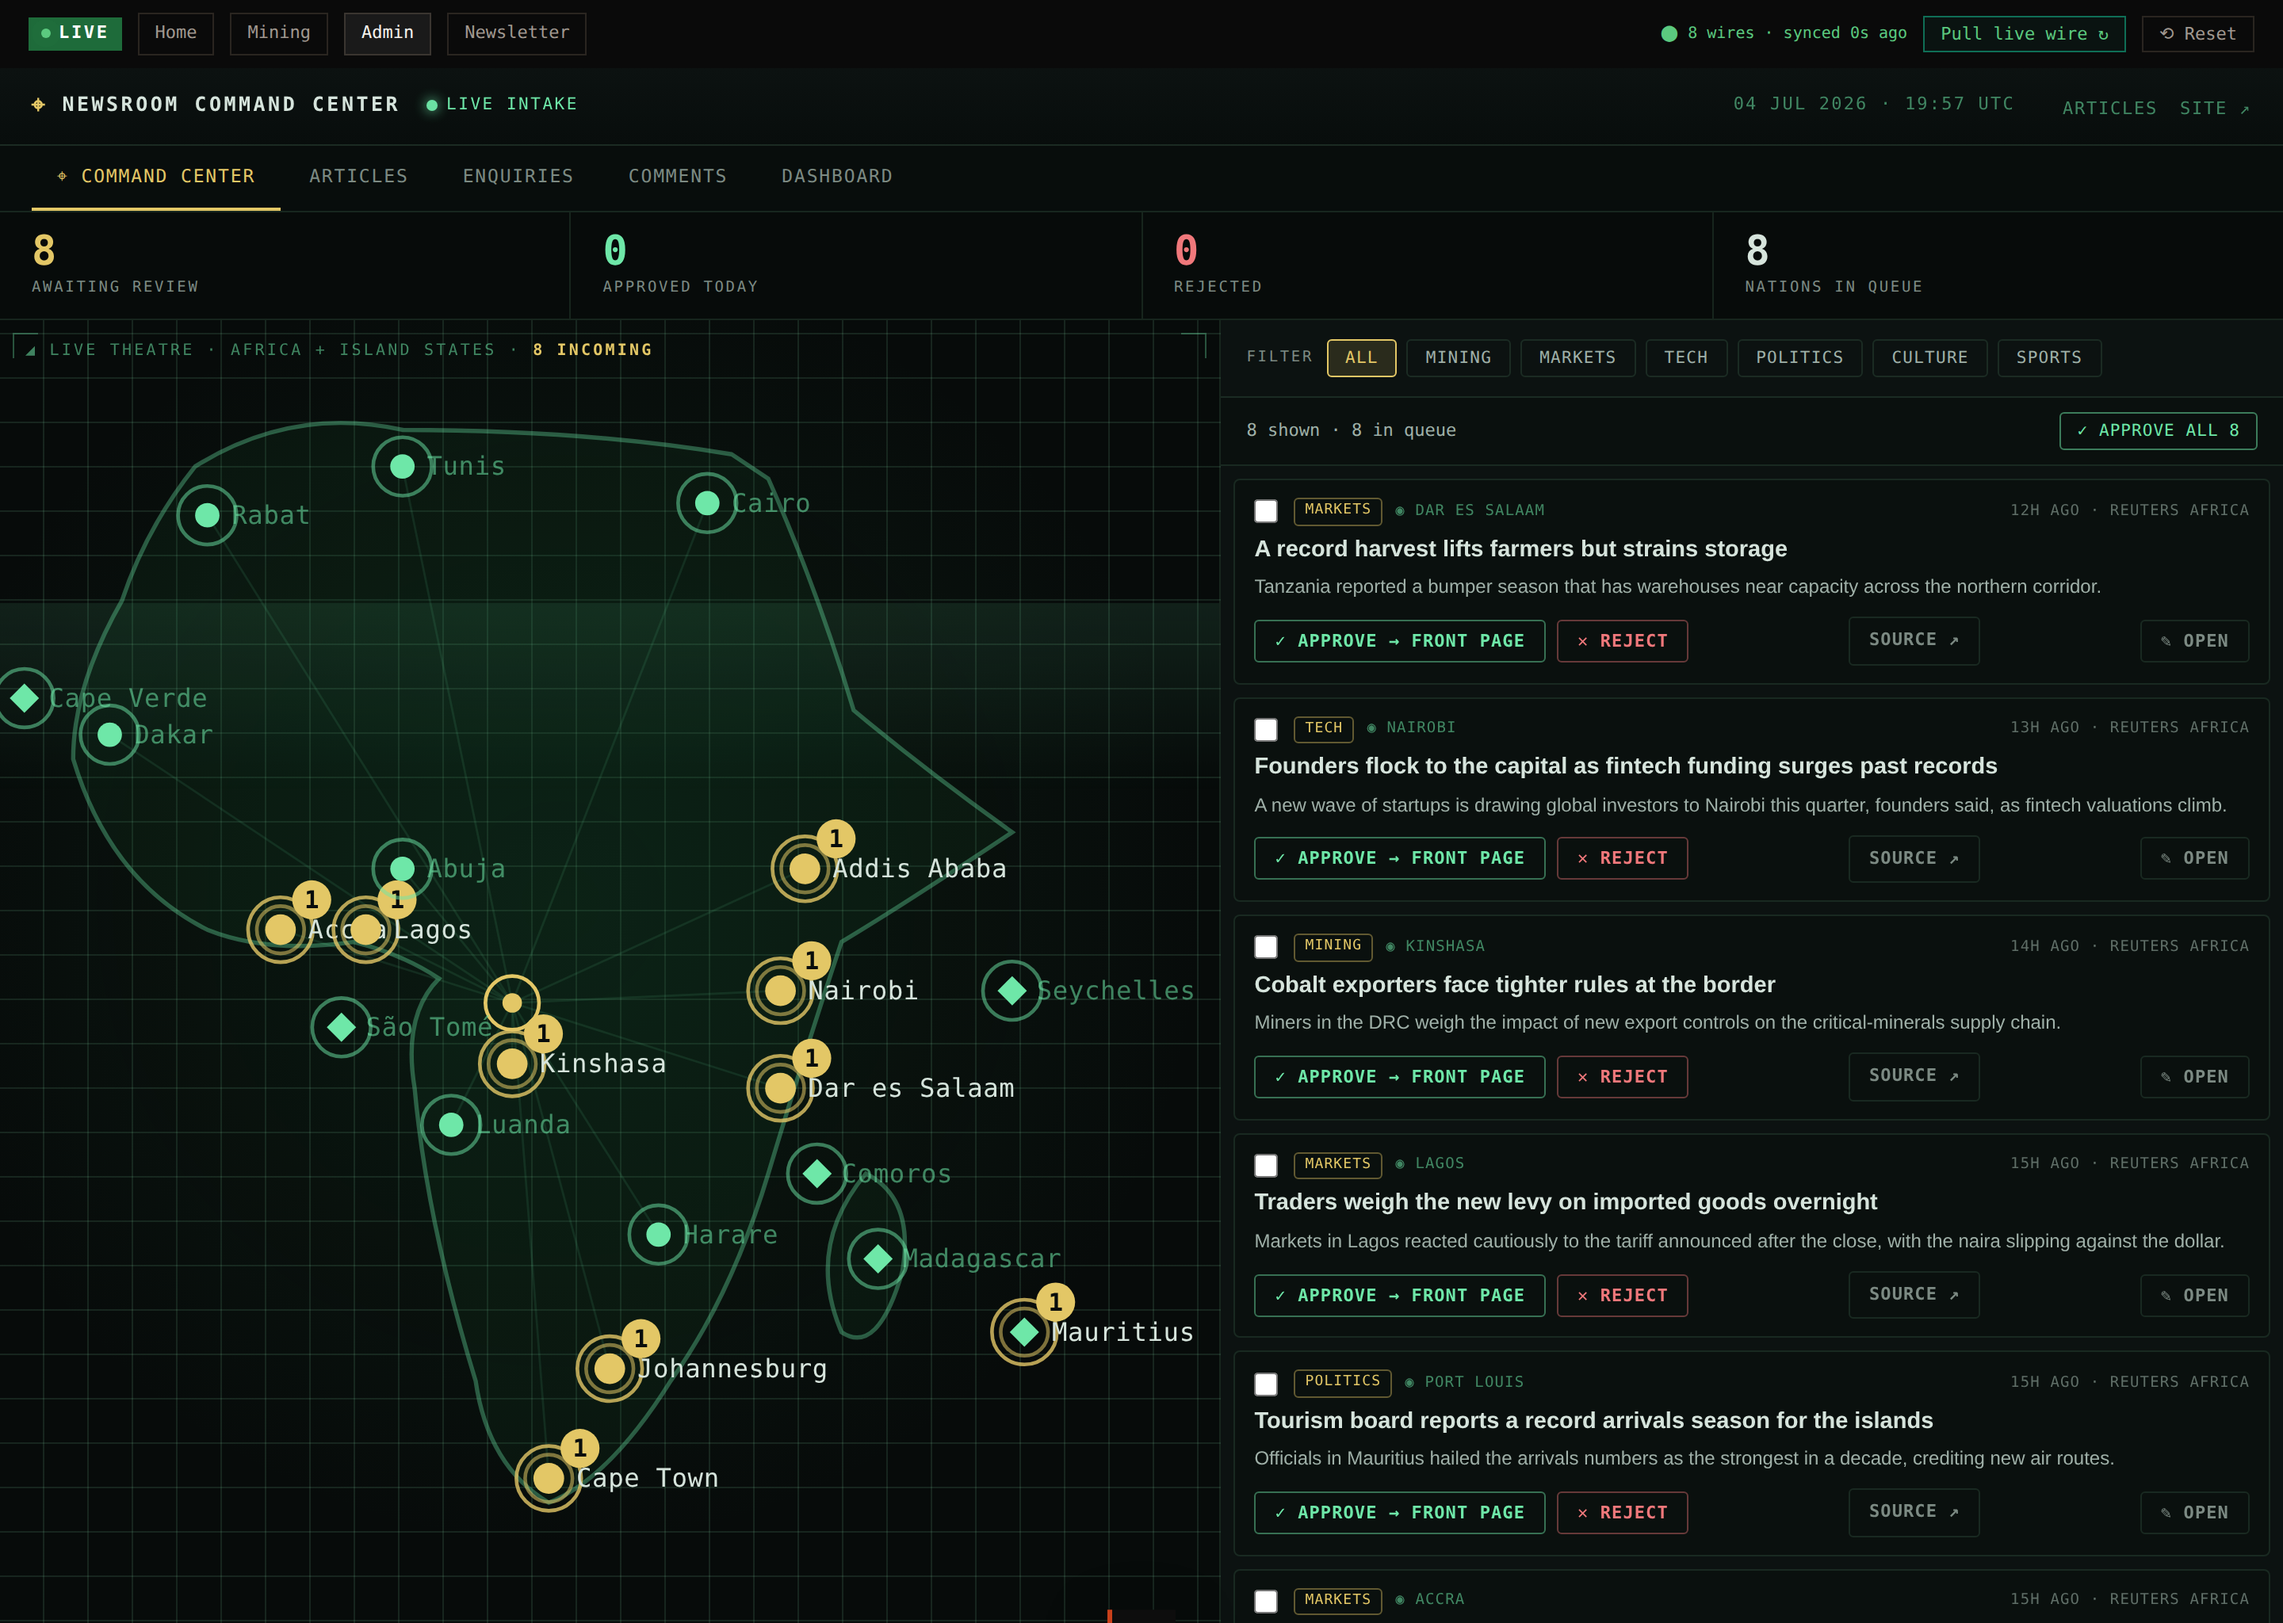
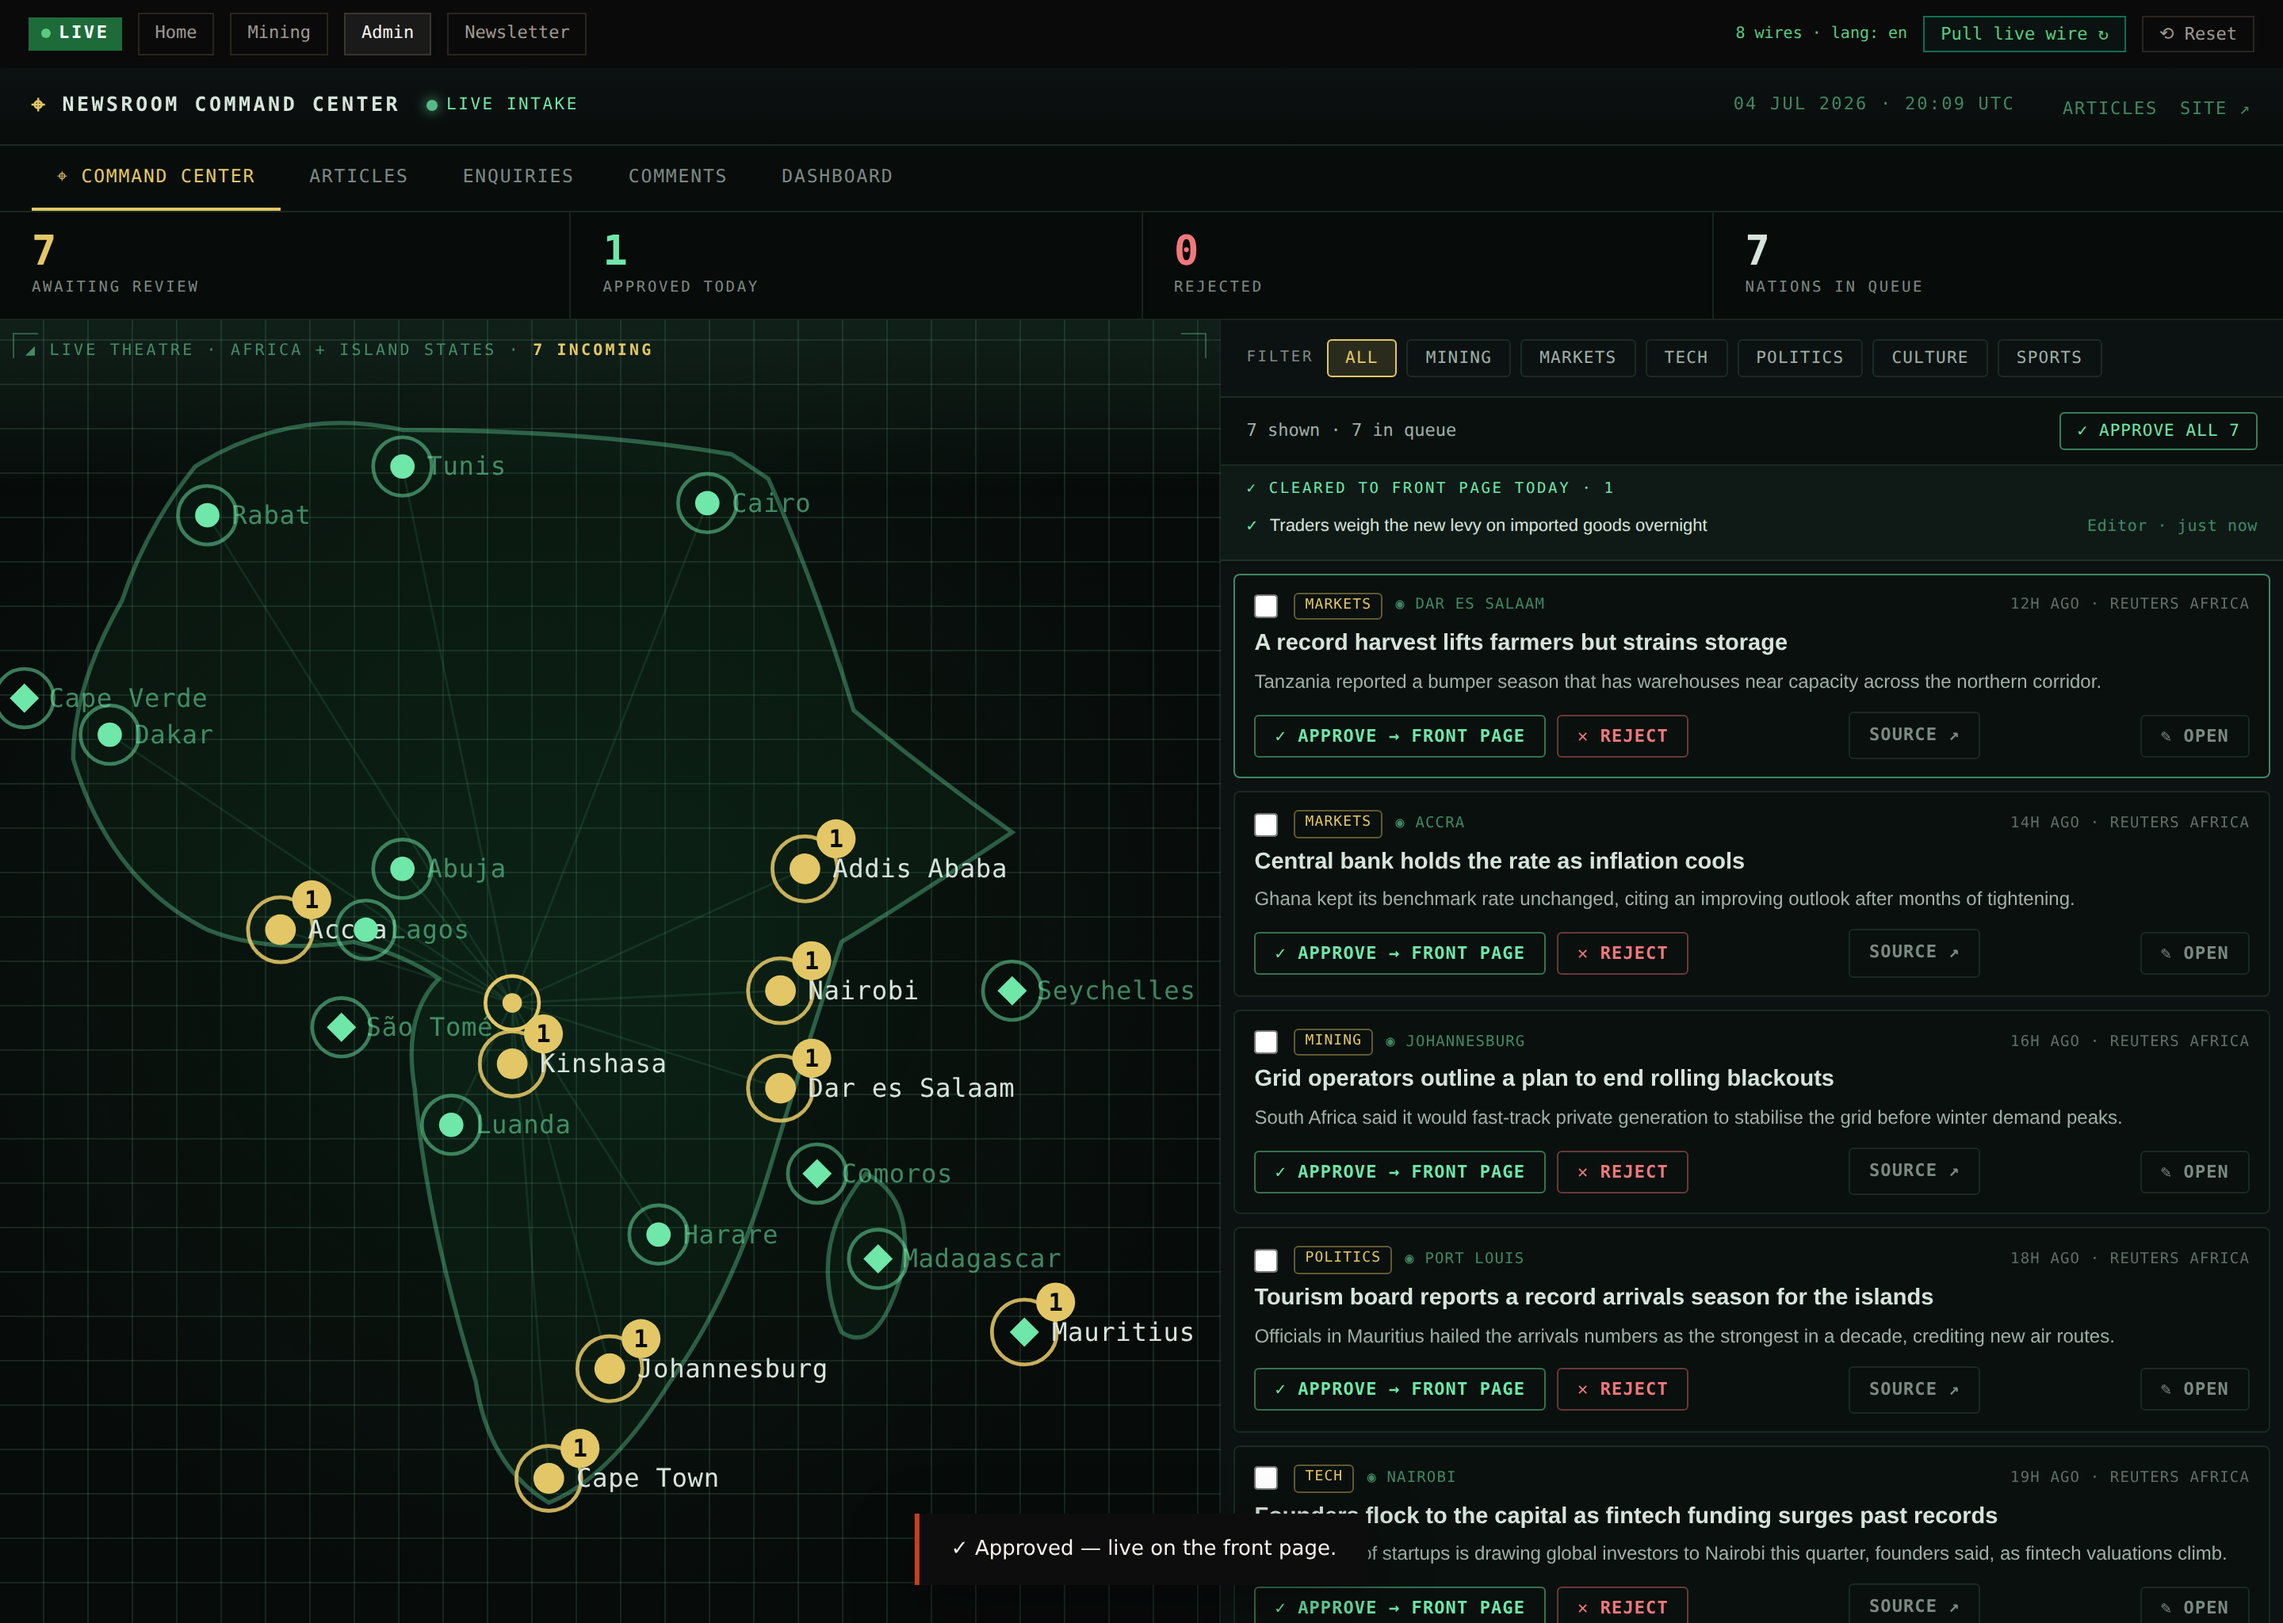
Command Center: audit trail — stamp who approved each story, and when
Approving a wire story now records the editor and timestamp (approved_by /
approved_at), giving a credible "every story is verified by a named editor"
trail for the pitch. Stored in the article payload (jsonb) — no schema change —
so it round-trips through Supabase.

- Surfaced in two places: the Command Center's "✓ Cleared to front page today"
  strip (recent approvals with editor + relative time) and a green audit banner
  in the CMS article editor ("Approved to the front page by <editor> · <date>").
- Both single Approve and bulk Approve stamp; Reject does not.
- CMS status dropdown now includes 'rejected' to match the DB constraint.

Verified: 51/51 unit tests, build clean, and the headless Command Center test
extended to 20/20 — after an approval the cleared-today log appears and names the
approving editor.

Claude-Session: https://claude.ai/code/session_011Ju2akXWqKdy9fLa3Wnv5F

diff --git a/public/afripulse-preview.html b/public/afripulse-preview.html
@@ -1023,6 +1023,14 @@ html[dir="rtl"] .nl-modal-x{right:auto;left:14px}
 .cc-btn.edit{margin-left:auto;color:#7C8A83}
 .cc-btn.edit:hover{border-color:var(--cc-phos-dim);color:var(--cc-ink)}
 .cc-btn .src{}
+.cc-cleared{border-bottom:1px solid var(--cc-line);background:rgba(110,231,168,.04);padding:8px 16px 10px}
+.cc-cleared-h{font-size:9.5px;letter-spacing:.14em;color:var(--cc-phos);text-transform:uppercase;margin-bottom:6px}
+.cc-cleared-row{display:flex;align-items:center;gap:8px;font-size:11px;padding:2px 0;color:#9FB0A8}
+.cc-cleared-row .ck{color:var(--cc-phos)}
+.cc-cleared-row .hd{color:var(--cc-ink);font-family:'DM Sans',sans-serif;white-space:nowrap;overflow:hidden;text-overflow:ellipsis;flex:1;min-width:0}
+.cc-cleared-row .by{color:var(--cc-phos-dim);white-space:nowrap;font-size:10px;letter-spacing:.03em}
+.adm-audit{padding:9px 22px;background:rgba(46,160,90,.12);border-bottom:1px solid #2A2D31;color:#7FE0A8;font-size:12px;letter-spacing:.02em}
+.adm-audit b{color:#CDEBD8;font-weight:600}
 .cc-empty{padding:60px 24px;text-align:center;color:#5F6E67;font-size:12.5px;line-height:1.8;letter-spacing:.04em}
 .cc-empty b{color:var(--cc-phos);display:block;font-size:14px;margin-bottom:6px}
 @media (max-width:920px){.cc-body{grid-template-columns:1fr}.cc-mapwrap{border-right:0;border-bottom:1px solid var(--cc-line);min-height:380px}.cc-queue{max-height:none}.cc-stat .n{font-size:20px}}
@@ -4401,8 +4409,13 @@ function adminEditor(a){
     vertOpts += '<option value="'+esc(k)+'"'+(a.vertical===k?' selected':'')+'>'+esc(vlabel(k))+'</option>';
   }
   let statusOpts='';
-  for(const s of ['draft','review','published']){
+  for(const s of ['draft','review','published','rejected']){
     statusOpts += '<option value="'+esc(s)+'"'+(a.status===s?' selected':'')+'>'+esc(s)+'</option>';
+  }
+  let auditBanner='';
+  if(a.approved_by){
+    let when=''; try{ when=' · '+new Date(a.approved_at).toLocaleString(); }catch(e){}
+    auditBanner='<div class="adm-audit">✓ Approved to the front page by <b>'+esc(a.approved_by)+'</b>'+esc(when)+'</div>';
   }
   let tagsHTML='';
   for(const tg of (a.tags||[])){
@@ -4420,6 +4433,7 @@ function adminEditor(a){
       '<button class="adm-btn primary" id="save-btn" type="button">'+esc(t('save'))+'</button>'+
     '</div>'+
   '</div>'+
+  auditBanner+
   '<form class="adm-form" id="article-form" data-original-slug="'+esc(a.slug||'')+'" onsubmit="return false">'+
     '<div class="adm-slug">🔗 Slug<span class="u" id="slug-preview">'+esc(slugDisplay)+'</span></div>'+
     '<div class="adm-field">'+
@@ -4914,13 +4928,37 @@ function viewAdminCommand(){
       '<div class="cc-panel">'+
         '<div class="cc-filter">'+chips+hubFilter+(anyFilter?'<button class="cc-clear" id="cc-clear">✕ clear</button>':'')+'</div>'+
         '<div class="cc-bulk" id="cc-bulk">'+ccBulkHTML(arts)+'</div>'+
+        ccClearedHTML()+
         '<div class="cc-queue" id="cc-queue">'+commandQueueHTML(arts)+'</div>'+
       '</div>'+
     '</div>'+
   '</div>';
 }
 function renderCCBulk(){ const el=document.getElementById('cc-bulk'); if(el) el.innerHTML=ccBulkHTML(ccFiltered()); }
+// Audit trail: stamp who cleared a story to the front page, and when. Rides along
+// in the article payload (jsonb) — no schema change — so it round-trips through
+// Supabase and shows in the CMS and the Command Center's "cleared today" log.
+function approverName(){ return (PROFILE && (PROFILE.display_name||PROFILE.handle)) || currentUserEmail() || 'Editor'; }
+function stampApproval(a){ if(!a) return; a.approved_by=approverName(); a.approved_at=new Date().toISOString(); }
+function clearedToday(){
+  const t=new Date(); t.setHours(0,0,0,0);
+  return ARTICLES.filter(function(a){ return a.status==='published' && a.approved_at && new Date(a.approved_at)>=t; })
+    .sort(function(a,b){ return new Date(b.approved_at)-new Date(a.approved_at); });
+}
+function ccClearedHTML(){
+  const c=clearedToday();
+  if(!c.length) return '';
+  let items='';
+  c.slice(0,6).forEach(function(a){
+    items+='<div class="cc-cleared-row"><span class="ck">✓</span>'+
+      '<span class="hd">'+esc(a.headline)+'</span>'+
+      '<span class="by">'+esc(a.approved_by||'editor')+' · '+esc(timeAgo(a.approved_at))+'</span></div>';
+  });
+  return '<div class="cc-cleared"><div class="cc-cleared-h">✓ Cleared to front page today · '+c.length+'</div>'+items+'</div>';
+}
 async function ccAct(slug, status){
+  const a=ARTICLES.find(function(x){ return x.slug===slug; });
+  if(a && status==='published') stampApproval(a);
   const ok=await setArticleStatus(slug, status);
   if(CC_SEL) CC_SEL.delete(slug);
   toast(ok?(status==='published'?'✓ Approved — live on the front page.':'Rejected.'):'Saved locally · sign in to sync.');
@@ -4931,7 +4969,7 @@ async function ccBulk(slugs, status){
   if(!slugs.length) return;
   if(status==='rejected' && !confirm('Reject '+slugs.length+' stor'+(slugs.length===1?'y':'ies')+'? They stay off the front page.')) return;
   const rows=[];
-  slugs.forEach(function(s){ const a=ARTICLES.find(function(x){return x.slug===s;}); if(a){ a.status=status; if(CC_SEL) CC_SEL.delete(s); rows.push(a); } });
+  slugs.forEach(function(s){ const a=ARTICLES.find(function(x){return x.slug===s;}); if(a){ a.status=status; if(status==='published') stampApproval(a); if(CC_SEL) CC_SEL.delete(s); rows.push(a); } });
   saveCache(ARTICLES);
   toast((status==='published'?'✓ Approved ':'Rejected ')+rows.length+' stor'+(rows.length===1?'y':'ies')+' — syncing…');
   route();

diff --git a/docs/COMMAND_CENTER.md b/docs/COMMAND_CENTER.md
@@ -43,6 +43,10 @@ still works, because `published` was always allowed).
 - **Bulk:** tick the checkboxes and **Approve/Reject selected**, or **Approve all
   shown** to clear a filtered batch in one click.
 - **HUD stats:** Awaiting review · Approved today · Rejected · Nations in queue.
+- **Audit trail:** approving a story stamps **who** cleared it and **when**. It
+  shows in the Command Center's "✓ Cleared to front page today" strip and as a
+  green banner in the CMS editor ("Approved to the front page by … · …"). Stored
+  in the article payload (no schema change), so it survives round-trips.
 
 ## Where it lives in the code
 
